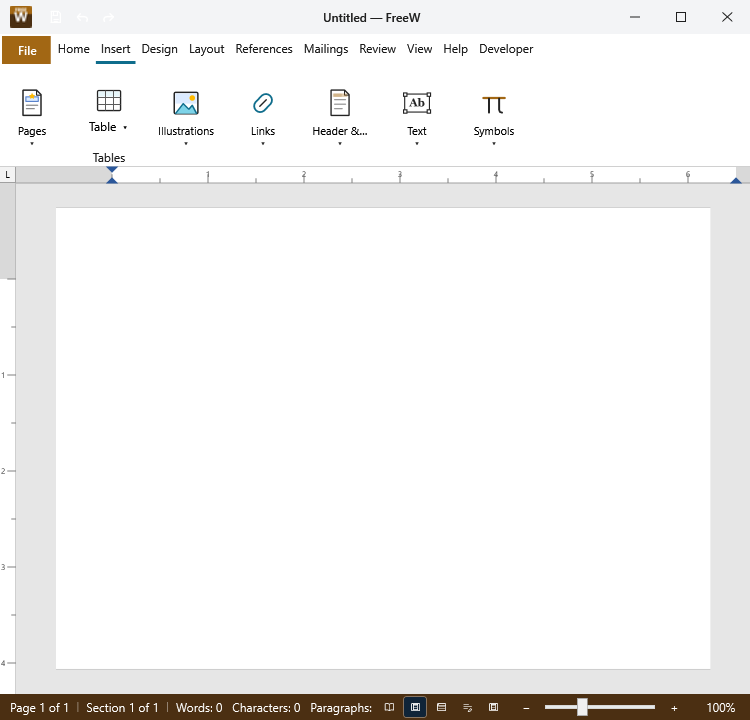
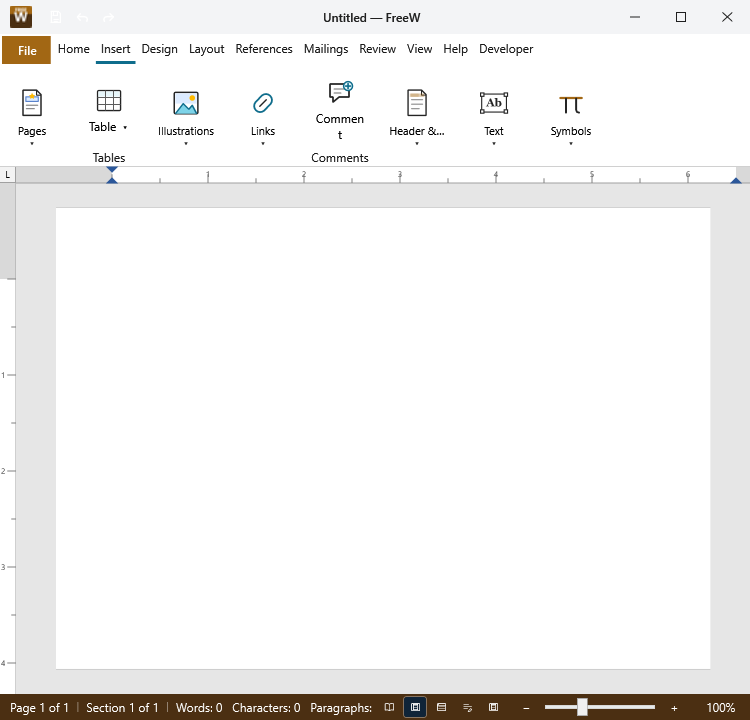
Expose FreeW Insert comments

diff --git a/freew/FreeW.App.Host.Tests/RibbonShellBuilderTests.cs b/freew/FreeW.App.Host.Tests/RibbonShellBuilderTests.cs
@@ -184,6 +184,28 @@ public sealed class RibbonShellBuilderTests
     }
 
     [StaFact]
+    public void Insert_CommentStaysDirectAt750Dips()
+    {
+        var insert = FreeW.Ribbon.Definitions.FreeWRibbon
+            .Build(FreeW.Ribbon.Definitions.FreeWRibbonCapabilities.Wpf)
+            .FindTab("insert")!;
+        var content = RibbonWpfRenderer.BuildTabContent(insert, new Button());
+        var panel = FindLogicalChild<RibbonAdaptivePanel>(content)!;
+
+        content.Measure(new Size(750, 180));
+        content.Arrange(new Rect(0, 0, 750, 180));
+        content.UpdateLayout();
+
+        var comments = panel.Children
+            .OfType<RibbonGroupHost>()
+            .Single(group => group.GroupName == "Comments");
+
+        comments.Collapsed.Should().BeFalse(
+            "Word keeps the Insert Comment action directly reachable at the narrow reference width");
+        FindLogicalChild<Button>(Assert.IsAssignableFrom<DependencyObject>(comments.Content)).Should().NotBeNull();
+    }
+
+    [StaFact]
     public void Design_compact_presentation_keeps_document_formatting_and_page_background_direct()
     {
         var design = FreeW.Ribbon.Definitions.FreeWRibbon

diff --git a/freew/FreeW.Ribbon.Definitions/FreeWCanonicalRibbonTabs.Ordinary.cs b/freew/FreeW.Ribbon.Definitions/FreeWCanonicalRibbonTabs.Ordinary.cs
@@ -509,6 +509,19 @@ internal static partial class FreeWCanonicalRibbonTabs
                     }));
 
             topology.Section(
+                "insert.comments",
+                tab => tab.Group("comments", "Comments", "C", 68, g =>
+                    {
+                        // Word exposes the existing New Comment action directly on Insert as well
+                        // as in Review. Keep that primary entry point at the narrow reference width.
+                        g.Large("freew.new-comment", "Comment", RibbonCommandIconKind.Comment);
+                    }),
+                tab => tab.Group("comments", "Comments", null, 94, g =>
+                    {
+                        g.Button("freew.new-comment", "Comment", b => Icon(b, RibbonCommandIconKind.Comment));
+                    }));
+
+            topology.Section(
                 "insert.header-footer",
                 tab => tab.Group("header-footer", "Header & Footer", "H", 60, g =>
                     {

diff --git a/docs/parity/freew-command-inventory.md b/docs/parity/freew-command-inventory.md
@@ -509,7 +509,7 @@ Gap classifications are generated from explicit rule order: shared-profile, comm
 | `freew.multilevel-promote` | Decrease List Level | Yes | Yes | none | shared-profile | shared-profile | shared-profile | home/paragraph (RibbonMenuItem; Menu) | home/paragraph (RibbonMenuItem; Menu) | WPF definition source<br>Avalonia definition source | Multilevel List shared workflow: MultilevelListRibbonWorkflowTests.SharedWorkflowOwnsDefaultPresetsLevelsAndDefineDialog<br>MultilevelListRibbonWorkflowTests.SharedWorkflowOwnsDefaultPresetsLevelsAndDefineDialog | Command is present in both compiled FreeW ribbon profiles. |
 | `freew.nav-pane` | Navigation Pane | Yes | Yes | none | shared-profile | shared-profile | shared-profile | view/show (RibbonToggleButton; Medium) | view/show (RibbonToggleButton; Medium) | WPF definition source<br>Avalonia definition source | - | Command is present in both compiled FreeW ribbon profiles. |
 | `freew.new` | New | No | Yes | WPF | avalonia-profile-only | platform-only | platform-only | - | file/document (RibbonButton; Medium) | WPF definition source<br>Avalonia definition source<br>Avalonia registry source | Avalonia compact File shell variance: FreeWRibbonParityTests.Wpf_profile_uses_backstage_shell_instead_of_avalonia_file_command_strip<br>RibbonAndDocumentTests.Avalonia_file_shell_and_WPF_authority_legal_notice_commands_are_backed | Accepted host variance: Avalonia compact File command; WPF routes New through Backstage/File lifecycle workflow instead of this generated command id. |
-| `freew.new-comment` | New Comment | Yes | Yes | none | shared-profile | shared-profile | shared-profile | review/comments (RibbonButton; Medium) | review/comments (RibbonButton; Medium) | WPF definition source<br>Avalonia definition source | Comments-only protection history: ProtectionEnforcementTests.CommentsOnlyProtection_AllowsEachClassifiedCommentHistoryEntry<br>DocumentViewProtectionTests.CommentsOnly_allows_each_classified_comment_history_entry | Command is present in both compiled FreeW ribbon profiles. |
+| `freew.new-comment` | Comment | Yes | Yes | none | shared-profile | shared-profile | shared-profile | insert/comments (RibbonButton; Large)<br>review/comments (RibbonButton; Medium) | insert/comments (RibbonButton; Medium)<br>review/comments (RibbonButton; Medium) | WPF definition source<br>Avalonia definition source | Comments-only protection history: ProtectionEnforcementTests.CommentsOnlyProtection_AllowsEachClassifiedCommentHistoryEntry<br>DocumentViewProtectionTests.CommentsOnly_allows_each_classified_comment_history_entry | Command is present in both compiled FreeW ribbon profiles. |
 | `freew.new-style` | New Style | Yes | Yes | none | shared-profile | shared-profile | shared-profile | home/styles (RibbonButton; Medium) | home/styles (RibbonButton; Small) | WPF definition source<br>Avalonia definition source | - | Command is present in both compiled FreeW ribbon profiles. |
 | `freew.new-window` | New Window | Yes | Yes | none | shared-profile | shared-profile | shared-profile | view/window (RibbonButton; Medium) | view/window (RibbonButton; Medium) | WPF definition source<br>Avalonia definition source | - | Command is present in both compiled FreeW ribbon profiles. |
 | `freew.next-change` | Next | Yes | Yes | none | shared-profile | shared-profile | shared-profile | review/changes (RibbonButton; Medium) | review/changes (RibbonButton; Medium) | WPF definition source<br>Avalonia definition source | Review change navigation: FreeWRibbonParityTests.ReviewTrackingAndChanges_CommandRoutesExecuteBackedActions<br>ReviewChangeNavigationTests.Production_MainWindow_step_opens_hidden_pane_and_navigates | Command is present in both compiled FreeW ribbon profiles. |

diff --git a/docs/parity/freew-design-dialog-parity-20260720.md b/docs/parity/freew-design-dialog-parity-20260720.md
@@ -1,7 +1,7 @@
 # FreeW Design Dialog Parity Evidence
 
-Generated at UTC: 2026-08-29T14:53:08.6171486Z
-Source commit: `fea162e9c3e2442373b61c2191ee9caedc72ebf8`
+Generated at UTC: 2026-08-29T15:13:26.1506992Z
+Source commit: `72ea5383f57a16832da11e27afab5ad6fce95f19`
 Schema: `freew.design-dialog-parity.v1`
 
 Routes: 11 total; 10 complete; 0 remaining in the owned dialog/planner scope; 0 shell gaps recorded.
@@ -49,5 +49,5 @@ Generate-FreeWDesignDialogParityEvidence.ps1 -Check recomputes SHA-256 for every
 | freew/FreeW.App.Presentation/Dialogs/BordersAndShadingDialogPlanner.cs | b3bacdce6d02f237d7f15d4622039991df218c18802e1e6cde729b5174f7ec9a |
 | freew/FreeW.Ribbon.Definitions/FreeWCanonicalRibbonTabs.Contextual.cs | 17d19593786591f0eb980b2b0991522898cfc8158fb6aa0d88dda293c2c0eeca |
 | freew/FreeW.Ribbon.Definitions/FreeWCanonicalRibbonTabs.cs | b5da25d6dd48f699ff9fa8161f9f20de8b582904b14a83eb7b3e1a2444e1526a |
-| freew/FreeW.Ribbon.Definitions/FreeWCanonicalRibbonTabs.Ordinary.cs | 8db0831595bc545ea01cc124c314a79881bfcd87c282845cb61d28cb0184982f |
+| freew/FreeW.Ribbon.Definitions/FreeWCanonicalRibbonTabs.Ordinary.cs | dbf23c199faa9985c14b591e2a8f1fb8ff27e936a969976c347923f2c9076042 |
 | freew/FreeW.Ribbon.Definitions/FreeWRibbon.cs | b677dc00c1f57487b84bbfa8f62bb2936c3d880094bb8df15df4adf1559266e9 |
